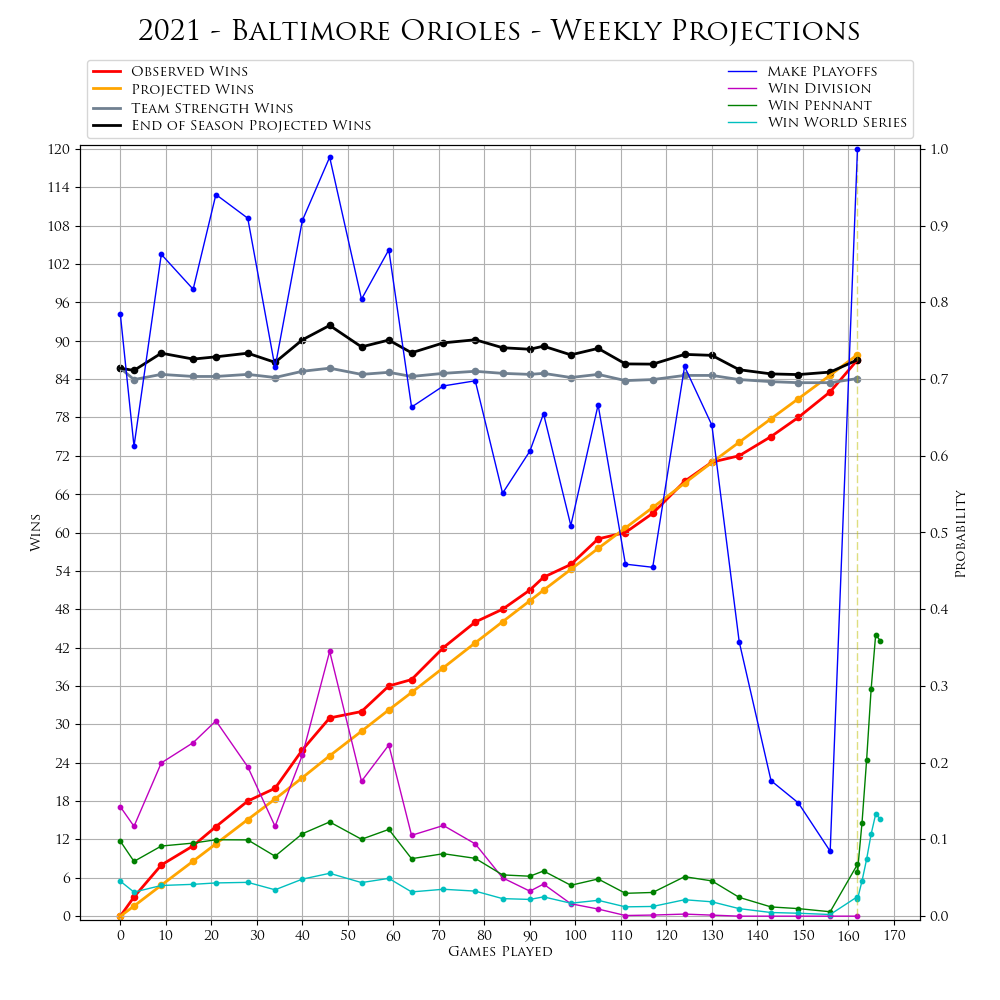
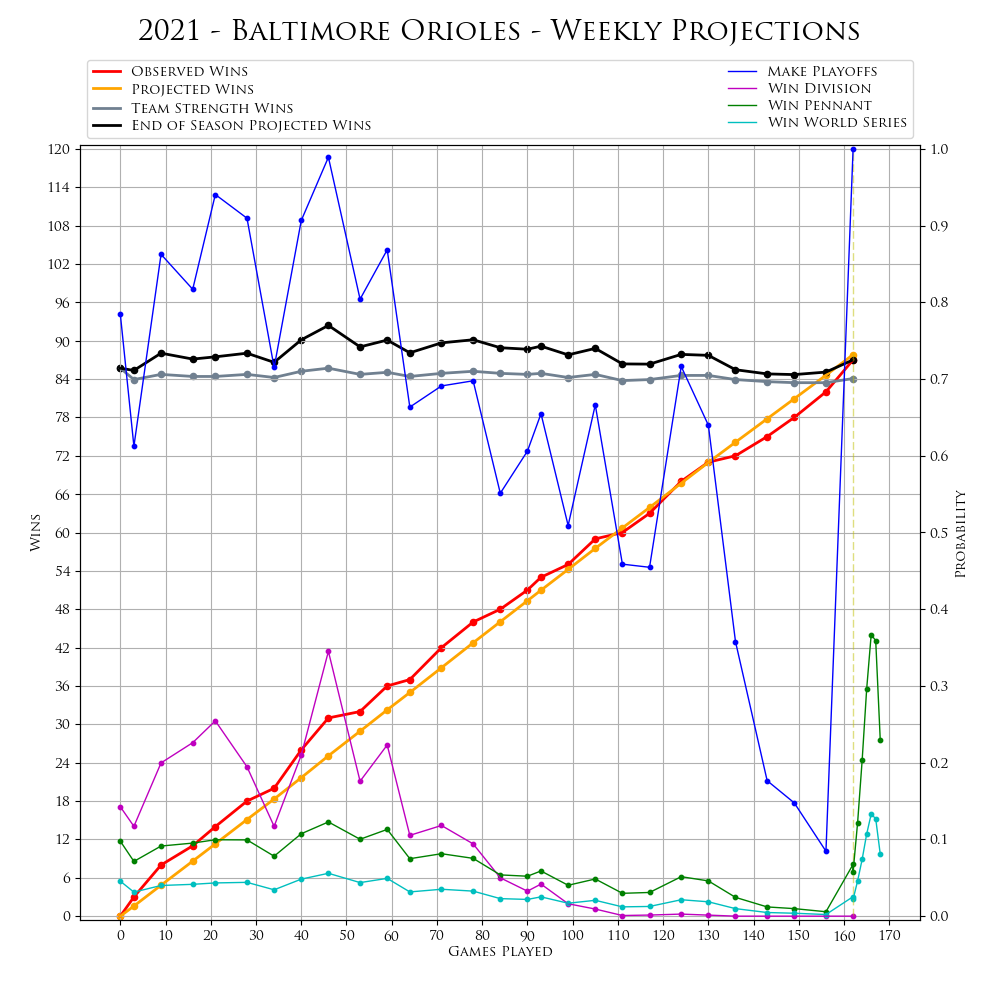
playoff NSBL update (Nov 23, 2021)

diff --git a/Tables/in_playoff_bracket.html b/Tables/in_playoff_bracket.html
@@ -255,7 +255,7 @@ c+"</h1><div>"+("function"===typeof e.message?e.message(b,h,e):e.message)+"</div
 </script>
 <script>
 		$(document).ready(function() {
-			$("#table").DataTable({"scroller":true,"dom":"Bfrtip","sScrollX":"100%","scrollY":"70vh","buttons":["copy","csv","json","print"],"paging":true,"bPaginate":false,"bLengthChange":false,"deferRender":true,"data":[["ALCS","Baltimore Orioles","Chicago White Sox","0","0","35.9%","","3.6%","8.1%","11.4%","12.9%"],["ALCS","Chicago White Sox","Baltimore Orioles","0","0","64.1%","","10.2%","17.8%","19.3%","16.8%"],["ALDS1","Baltimore Orioles","Tampa Bay Rays","3","0","100.0%","100.0%","","","",""],["ALDS1","Tampa Bay Rays","Baltimore Orioles","0","3","0.0%","","","","",""],["ALDS2","Chicago White Sox","Texas Rangers","3","1","100.0%","","100.0%","","",""],["ALDS2","Texas Rangers","Chicago White Sox","1","3","0.0%","","","","",""],["ALWC","Baltimore Orioles","Toronto Blue Jays","1","0","100.0%","","","","",""],["ALWC","Toronto Blue Jays","Baltimore Orioles","0","1","0.0%","","","","",""],["NLCS","Miami Marlins","Pittsburgh Pirates","0","0","43.3%","","4.8%","10.3%","13.7%","14.5%"],["NLCS","Pittsburgh Pirates","Miami Marlins","0","0","56.7%","","7.9%","14.9%","17.5%","16.4%"],["NLDS1","Colorado Rockies","Pittsburgh Pirates","1","3","0.0%","","","","",""],["NLDS1","Pittsburgh Pirates","Colorado Rockies","3","1","100.0%","","100.0%","","",""],["NLDS2","Arizona Diamondbacks","Miami Marlins","1","3","0.0%","","","","",""],["NLDS2","Miami Marlins","Arizona Diamondbacks","3","1","100.0%","","100.0%","","",""],["NLWC","Colorado Rockies","San Diego Padres","1","0","100.0%","","","","",""],["NLWC","San Diego Padres","Colorado Rockies","0","1","0.0%","","","","",""]],"sScrollXInner":"100%","columns":[{"title":"Series ID"},{"title":"Team Name"},{"title":"Opponent Name"},{"title":"Series Wins"},{"title":"Series Losses"},{"title":"Advance Probability"},{"title":"Win in 3"},{"title":"Win in 4"},{"title":"Win in 5"},{"title":"Win in 6"},{"title":"Win in 7"}],"iDisplayLength":-1});
+			$("#table").DataTable({"scroller":true,"dom":"Bfrtip","sScrollX":"100%","scrollY":"70vh","buttons":["copy","csv","json","print"],"paging":true,"bPaginate":false,"bLengthChange":false,"deferRender":true,"data":[["ALCS","Baltimore Orioles","Chicago White Sox","0","1","23.0%","","","3.6%","8.1%","11.4%"],["ALCS","Chicago White Sox","Baltimore Orioles","1","0","77.0%","","18.1%","23.6%","20.5%","14.8%"],["ALDS1","Baltimore Orioles","Tampa Bay Rays","3","0","100.0%","100.0%","","","",""],["ALDS1","Tampa Bay Rays","Baltimore Orioles","0","3","0.0%","","","","",""],["ALDS2","Chicago White Sox","Texas Rangers","3","1","100.0%","","100.0%","","",""],["ALDS2","Texas Rangers","Chicago White Sox","1","3","0.0%","","","","",""],["ALWC","Baltimore Orioles","Toronto Blue Jays","1","0","100.0%","","","","",""],["ALWC","Toronto Blue Jays","Baltimore Orioles","0","1","0.0%","","","","",""],["NLCS","Miami Marlins","Pittsburgh Pirates","0","0","43.3%","","4.8%","10.3%","13.7%","14.5%"],["NLCS","Pittsburgh Pirates","Miami Marlins","0","0","56.7%","","7.9%","14.9%","17.5%","16.4%"],["NLDS1","Colorado Rockies","Pittsburgh Pirates","1","3","0.0%","","","","",""],["NLDS1","Pittsburgh Pirates","Colorado Rockies","3","1","100.0%","","100.0%","","",""],["NLDS2","Arizona Diamondbacks","Miami Marlins","1","3","0.0%","","","","",""],["NLDS2","Miami Marlins","Arizona Diamondbacks","3","1","100.0%","","100.0%","","",""],["NLWC","Colorado Rockies","San Diego Padres","1","0","100.0%","","","","",""],["NLWC","San Diego Padres","Colorado Rockies","0","1","0.0%","","","","",""]],"sScrollXInner":"100%","columns":[{"title":"Series ID"},{"title":"Team Name"},{"title":"Opponent Name"},{"title":"Series Wins"},{"title":"Series Losses"},{"title":"Advance Probability"},{"title":"Win in 3"},{"title":"Win in 4"},{"title":"Win in 5"},{"title":"Win in 6"},{"title":"Win in 7"}],"iDisplayLength":-1});
 		});
 	</script>
 <style>

diff --git a/Tables/in_playoff_probabilities.html b/Tables/in_playoff_probabilities.html
@@ -227,7 +227,7 @@ c+"</h1><div>"+("function"===typeof e.message?e.message(b,h,e):e.message)+"</div
 </script>
 <script>
 		$(document).ready(function() {
-			$("#table").DataTable({"dom":"Bfrtip","sScrollX":"100%","scrollY":"70vh","buttons":["copy","csv","json","print"],"paging":true,"lengthMenu":[[-1,10,25,50],["All",10,25,50]],"data":[["Arizona Diamondbacks","100.0%","0.0%","","100.0%","0.0%","0.0%","0.0%"],["Baltimore Orioles","0.0%","100.0%","100.0%","100.0%","100.0%","35.9%","12.7%"],["Chicago White Sox","100.0%","0.0%","","100.0%","100.0%","64.1%","31.6%"],["Colorado Rockies","0.0%","100.0%","100.0%","100.0%","0.0%","0.0%","0.0%"],["Miami Marlins","100.0%","0.0%","","100.0%","100.0%","43.3%","22.5%"],["Pittsburgh Pirates","100.0%","0.0%","","100.0%","100.0%","56.7%","33.2%"],["San Diego Padres","0.0%","100.0%","0.0%","0.0%","0.0%","0.0%","0.0%"],["Tampa Bay Rays","100.0%","0.0%","","100.0%","0.0%","0.0%","0.0%"],["Texas Rangers","100.0%","0.0%","","100.0%","0.0%","0.0%","0.0%"],["Toronto Blue Jays","0.0%","100.0%","0.0%","0.0%","0.0%","0.0%","0.0%"]],"sScrollXInner":"100%","columns":[{"title":"Team Name"},{"title":"Win Div"},{"title":"Make Wild Card"},{"title":"Win Wild Card"},{"title":"Make LDS"},{"title":"Make LCS"},{"title":"Make WS"},{"title":"Win WS"}],"iDisplayLength":-1});
+			$("#table").DataTable({"dom":"Bfrtip","sScrollX":"100%","scrollY":"70vh","buttons":["copy","csv","json","print"],"paging":true,"lengthMenu":[[-1,10,25,50],["All",10,25,50]],"data":[["Arizona Diamondbacks","100.0%","0.0%","","100.0%","0.0%","0.0%","0.0%"],["Baltimore Orioles","0.0%","100.0%","100.0%","100.0%","100.0%","23.0%","8.1%"],["Chicago White Sox","100.0%","0.0%","","100.0%","100.0%","77.0%","38.0%"],["Colorado Rockies","0.0%","100.0%","100.0%","100.0%","0.0%","0.0%","0.0%"],["Miami Marlins","100.0%","0.0%","","100.0%","100.0%","43.3%","21.7%"],["Pittsburgh Pirates","100.0%","0.0%","","100.0%","100.0%","56.7%","32.2%"],["San Diego Padres","0.0%","100.0%","0.0%","0.0%","0.0%","0.0%","0.0%"],["Tampa Bay Rays","100.0%","0.0%","","100.0%","0.0%","0.0%","0.0%"],["Texas Rangers","100.0%","0.0%","","100.0%","0.0%","0.0%","0.0%"],["Toronto Blue Jays","0.0%","100.0%","0.0%","0.0%","0.0%","0.0%","0.0%"]],"sScrollXInner":"100%","columns":[{"title":"Team Name"},{"title":"Win Div"},{"title":"Make Wild Card"},{"title":"Win Wild Card"},{"title":"Make LDS"},{"title":"Make LCS"},{"title":"Make WS"},{"title":"Win WS"}],"iDisplayLength":-1});
 		});
 	</script>
 <style>
